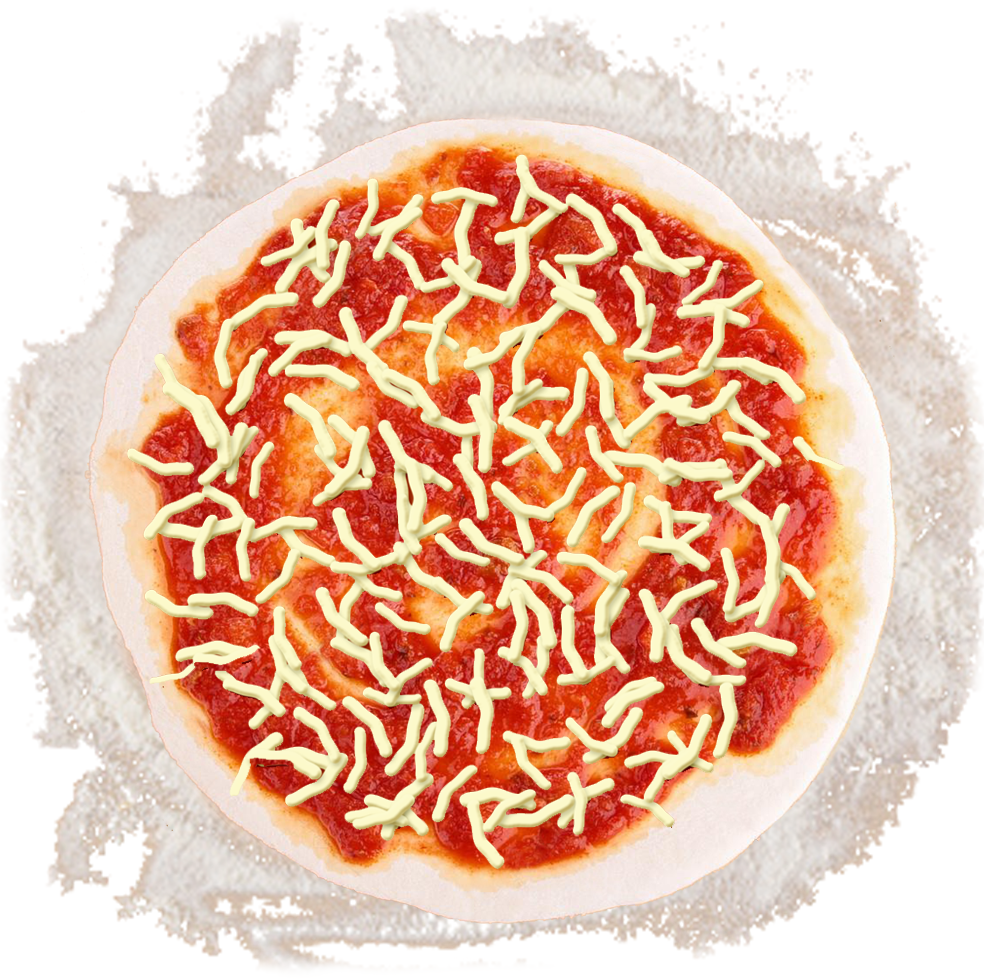
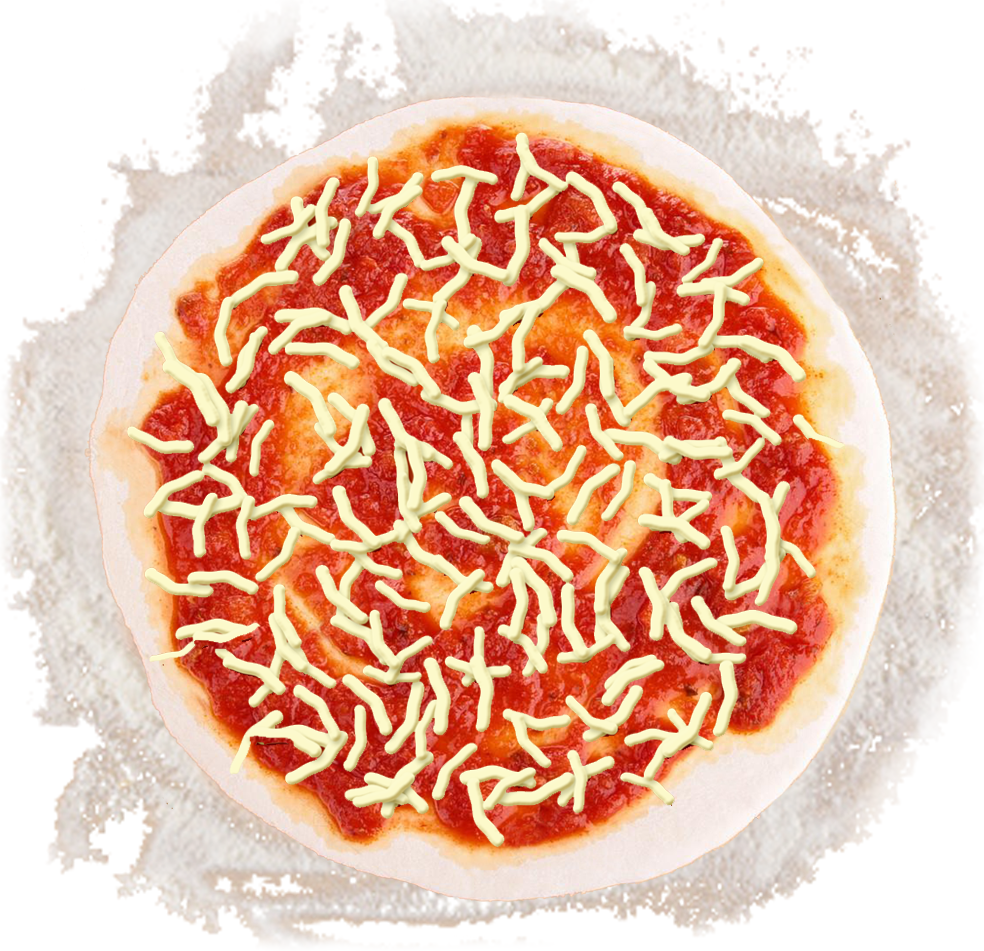
ajustes, centrando con flexbox

diff --git a/css/style.css b/css/style.css
@@ -48,26 +48,36 @@ a{
 
 .mesaPizza{
     display: flex;
-    justify-content: space-between;
+    justify-content: space-around;
     
 }
 
 .IMGpizza{
-    margin-left: 15rem ;
-    width: 47vw;
+    /* margin-left: 15rem ; */
+    width: 48vw;
     position: absolute; 
     z-index: 0; 
 }
 
+.pizza{
+   /*  background: chartreuse; */
+    display: flex;
+    justify-content: center;
+    align-items: center;
+    margin-top: 3rem;
+    height: 90vh;
+    width: 55vw;
+}
+
 .contenedor{
     width: 25vw;
-    height: 40vh;
-    /*background: red;*/
+    height: 50vh;
+   /*  background: red; */
     z-index: 1;
-    position: relative;
+    /* position: relative;
     margin-top: 18rem;
     margin-left:30rem;
-    margin-right: auto;
+    margin-right: auto; */
     
 }
 
